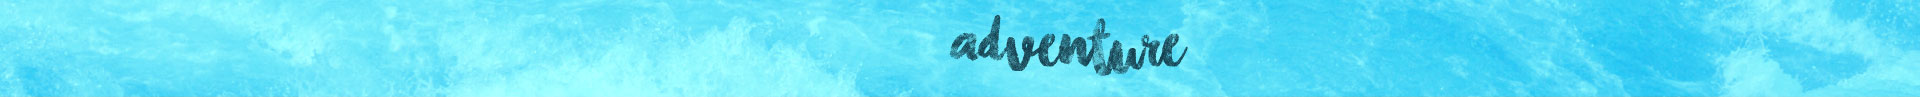
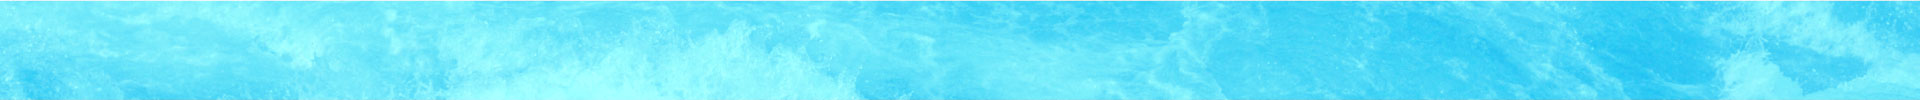
fix header-adventure. make adventure text a separate image

Changed region(s): [[0.4688, 0.1856, 0.625, 0.7732], [0.0, 0.0, 1.0, 0.0928], [0.4375, 0.0928, 0.4688, 0.1237]]

diff --git a/resources/assets/styles/layouts/_sections.scss b/resources/assets/styles/layouts/_sections.scss
@@ -25,7 +25,7 @@ section.header-adventure {
     text-transform: uppercase;
   }
   background: url("../images/header-adventure.jpg") center;
-  height: 97px;
+  min-height: 97px;
 }
 
 

diff --git a/resources/views/partials/header-adventure.blade.php b/resources/views/partials/header-adventure.blade.php
@@ -4,7 +4,9 @@
             <div class="col-6 adventure-text">
                 {{ $title or '' }}
             </div>
-            <div class="col-6"></div>
+            <div class="col-6">
+                <img src="@asset('images/adventure.png')" class="img-fluid" style="margin-bottom:20px;" />
+            </div>
         </div>
     </div>
 </section>
